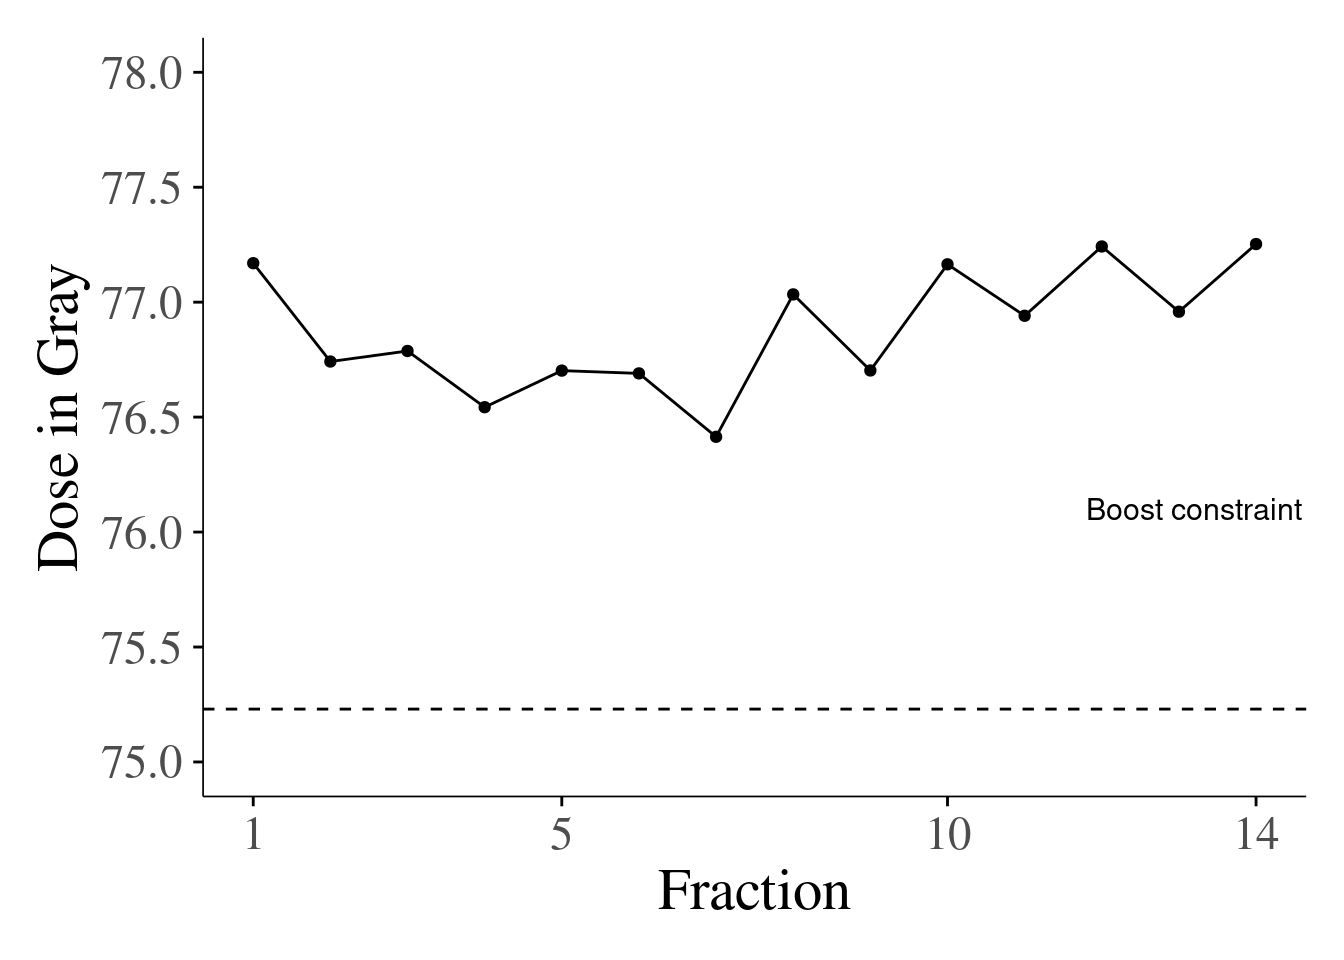
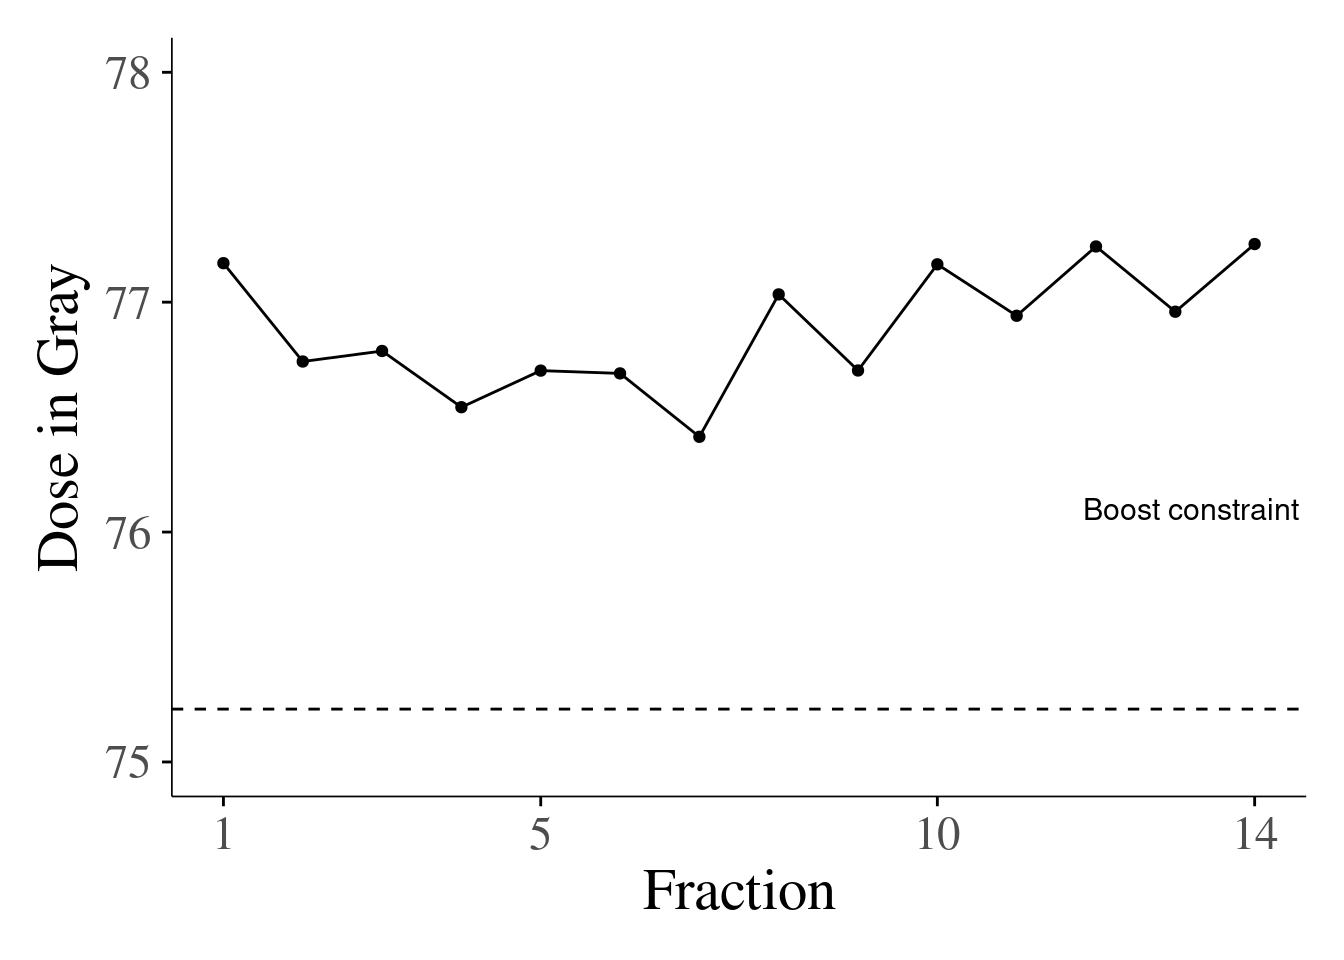
Build site.

diff --git a/docs/ggplot2.html b/docs/ggplot2.html
@@ -507,16 +507,16 @@ This reproducible <a href="http://rmarkdown.rstudio.com">R Markdown</a> analysis
 <div class="panel panel-default">
 <div class="panel-heading">
 <p class="panel-title">
-<a data-toggle="collapse" data-parent="#workflowr-checks" href="#strongRepositoryversionstrongahrefhttpsgithubcomdssrttnTesttree484ea0776d41c8d4e7ad28ccbe5b16b33362fd34targetblank484ea07a"> <span class="glyphicon glyphicon-ok text-success" aria-hidden="true"></span> <strong>Repository version:</strong> <a href="https://github.com/dssrttn/Test/tree/484ea0776d41c8d4e7ad28ccbe5b16b33362fd34" target="_blank">484ea07</a> </a>
+<a data-toggle="collapse" data-parent="#workflowr-checks" href="#strongRepositoryversionstrongahrefhttpsgithubcomdssrttnTesttree547c0c7c73cb3befc14a3caa453cd20e3f7be9f5targetblank547c0c7a"> <span class="glyphicon glyphicon-ok text-success" aria-hidden="true"></span> <strong>Repository version:</strong> <a href="https://github.com/dssrttn/Test/tree/547c0c7c73cb3befc14a3caa453cd20e3f7be9f5" target="_blank">547c0c7</a> </a>
 </p>
 </div>
[2 lines of base64/hex data omitted]
 <div class="panel-body">
 <p>
 Great! You are using Git for version control. Tracking code development and connecting the code version to the results is critical for reproducibility.
 </p>
 <p>
-The results in this page were generated with repository version <a href="https://github.com/dssrttn/Test/tree/484ea0776d41c8d4e7ad28ccbe5b16b33362fd34" target="_blank">484ea07</a>. See the <em>Past versions</em> tab to see a history of the changes made to the R Markdown and HTML files.
+The results in this page were generated with repository version <a href="https://github.com/dssrttn/Test/tree/547c0c7c73cb3befc14a3caa453cd20e3f7be9f5" target="_blank">547c0c7</a>. See the <em>Past versions</em> tab to see a history of the changes made to the R Markdown and HTML files.
 </p>
 <p>
 Note that you need to be careful to ensure that all relevant files for the analysis have been committed to Git prior to generating the results (you can use <code>wflow_publish</code> or <code>wflow_git_commit</code>). workflowr only checks the R Markdown file, but you know if there are other scripts or data files that it depends on. Below is the status of the Git repository when the results were generated:
@@ -537,6 +537,9 @@ Untracked files:
     Untracked:  data/External_1.csv
     Untracked:  data/PenisBulb_1.csv
     Untracked:  data/Rectum_1.csv
+
+Unstaged changes:
+    Modified:   analysis/kable.Rmd
 
 </code></pre>
 <p>
@@ -575,6 +578,40 @@ Message
 </tr>
 </thead>
 <tbody>
+<tr>
+<td>
+Rmd
+</td>
+<td>
+<a href="https://github.com/dssrttn/Test/blob/547c0c7c73cb3befc14a3caa453cd20e3f7be9f5/analysis/ggplot2.Rmd" target="_blank">547c0c7</a>
+</td>
+<td>
+Mein Vorname
+</td>
+<td>
+2020-07-01
+</td>
+<td>
+ticks ausgeduennt
+</td>
+</tr>
+<tr>
+<td>
+html
+</td>
+<td>
+<a href="https://rawcdn.githack.com/dssrttn/Test/2ea3f19b0017e2b193e04f92fba717e39610bc0d/docs/ggplot2.html" target="_blank">2ea3f19</a>
+</td>
+<td>
+Mein Vorname
+</td>
+<td>
+2020-07-01
+</td>
+<td>
+Build site.
+</td>
+</tr>
 <tr>
 <td>
 Rmd
@@ -1013,6 +1050,43 @@ Mein Vorname
 </div>
 </div>
 <p><img src="figure/ggplot2.Rmd/DIL%20Mittelwert2-1.png" width="672" style="display: block; margin: auto;" /></p>
+<p>
+<button type="button" class="btn btn-default btn-xs btn-workflowr btn-workflowr-fig" data-toggle="collapse" data-target="#fig-no-spaces-DIL-Mittelwert2-1">
+Past versions of “DIL Mittelwert2-1.png”
+</button>
+</p>
+<div id="fig-no-spaces-DIL-Mittelwert2-1" class="collapse">
+<div class="table-responsive">
+<table class="table table-condensed table-hover">
+<thead>
+<tr>
+<th>
+Version
+</th>
+<th>
+Author
+</th>
+<th>
+Date
+</th>
+</tr>
+</thead>
+<tbody>
+<tr>
+<td>
+<a href="https://github.com/dssrttn/Test/blob/2ea3f19b0017e2b193e04f92fba717e39610bc0d/docs/figure/ggplot2.Rmd/DIL Mittelwert2-1.png" target="_blank">2ea3f19</a>
+</td>
+<td>
+Mein Vorname
+</td>
+<td>
+2020-07-01
+</td>
+</tr>
+</tbody>
+</table>
+</div>
+</div>
 <br>
 <p>
 <button type="button" class="btn btn-default btn-workflowr btn-workflowr-sessioninfo" data-toggle="collapse" data-target="#workflowr-sessioninfo" style="display: block;">
